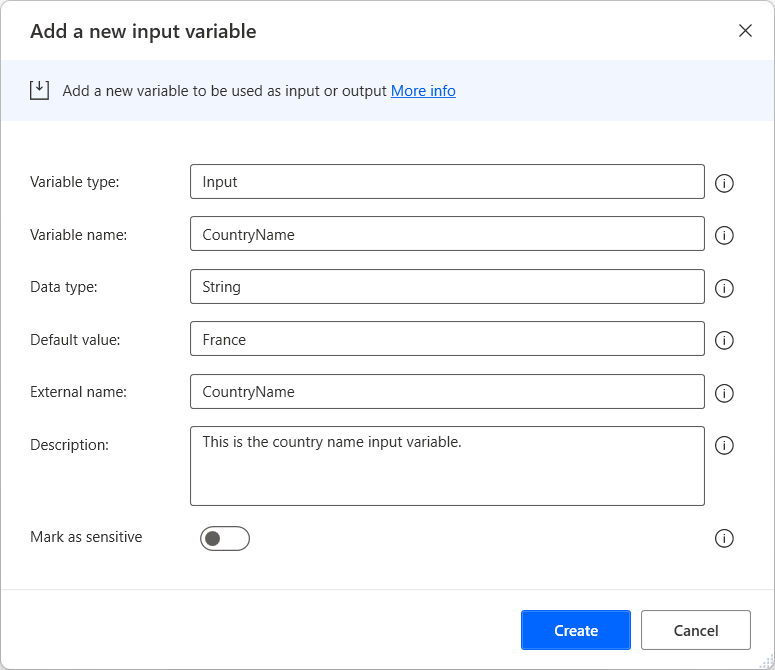
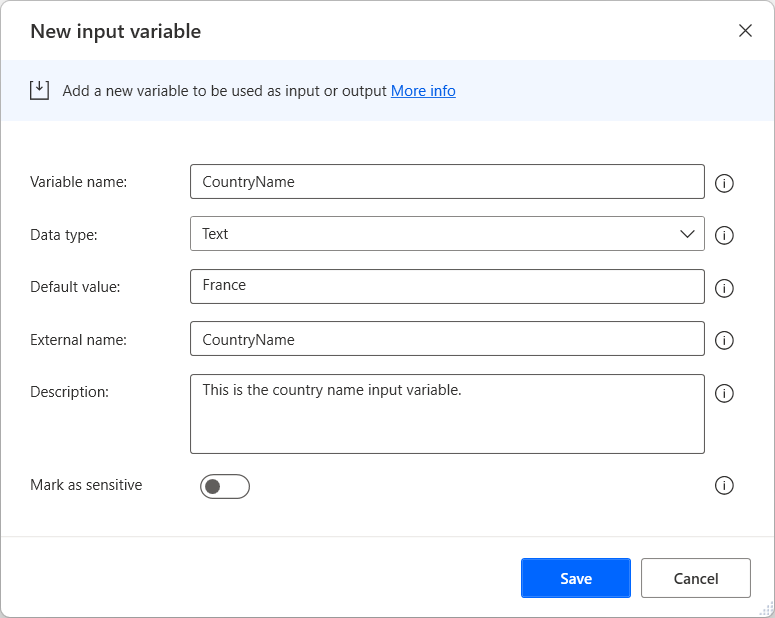
Updates in Create a Power Automate desktop flow

diff --git a/articles/desktop-flows/create-flow.md b/articles/desktop-flows/create-flow.md
@@ -105,7 +105,7 @@ If you've opened and edited an example in the flow designer, select the **Save a
    ![Screenshot of the button to add a new input variable.](media\design-flow\add-new-input-variable.png)
 
 1. Configure the variable as follows:
-   * Variable type: **Input**
+
    * Variable name: **CountryName**
    * Data type: **Text**
    * Default value: **France**
@@ -151,15 +151,15 @@ If you've opened and edited an example in the flow designer, select the **Save a
    ![Screenshot of the Get files folder action.](media\design-flow\get-files-folder-action-properties.png)
 
 1. In the **Variables** pane, create two Output variables as follows:
-   * Variable type: **Output**
    * Variable name: **FileCount**
+   * Data type: **Number**
    * External name: **FileCount**
    * Description: **This is the file count output variable.**
 
    and
 
-   * Variable type: **Output**
    * Variable name: **FilePath**
+   * Data type: **Text**
    * External name: **FilePath**
    * Description: **This is the file path output variable.**
 
